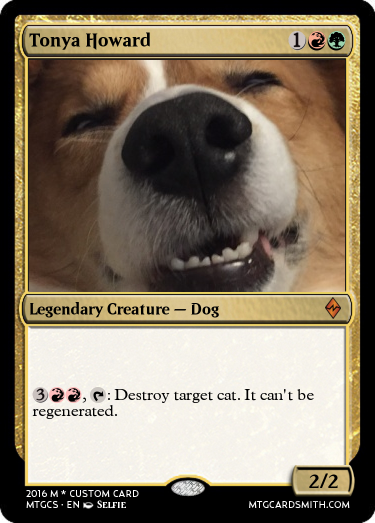
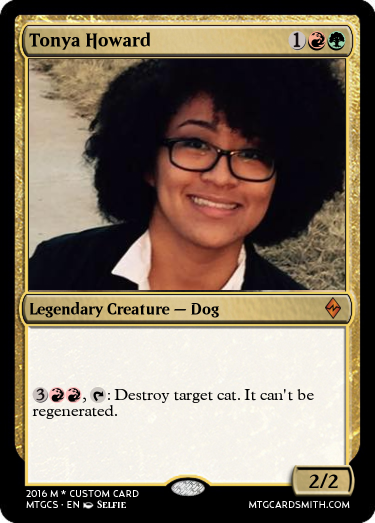
Modified Tonya's image, fixed typo, added data sources

diff --git a/carina/app/templates/about.html b/carina/app/templates/about.html
@@ -47,7 +47,7 @@
 	  <div class="row">
 			<div class="col-sm-6">
 				<span class="yelling-font">We are Dark Ritual!</span>
-				<p> We are a group of 6 electic college students with a love of rituals of the darkest
+				<p> We are a group of 6 eclectic college students with a love of rituals of the darkest
 				nature. We strive to create a friendly atmosphere and impart knowledge about the wonders
 				of Magic cards.
 				<p>This page will be updated as the project continues.
@@ -62,7 +62,11 @@
 				<br><a href="https://github.com/dark-ritual/cs373-idb">GitHub Repo</a>
 				<br><a href="https://github.com/dark-ritual/cs373-idb/wiki">GitHub Wiki</a>
 
-				<p>Tools Used (So far):
+				<p><b>Data Sources:</b>
+				<br><a href="http://mtgsalvation.gamepedia.com/Main_Page">MtG Salvation</a> - for card set information
+				<br><a href="http://gatherer.wizards.com/Pages/Default.aspx">Gatherer</a> - for card lists & artist information
+				
+				<p><b>Tools Used (So far):</b>
 				<br>SQLAlchemy, Bootstrap, CSS, HTML, TravisCI, Trello, JavaScript, Slack, GitHub, Flask,
 				Apiary, Namecheap, Python
 			</div>
